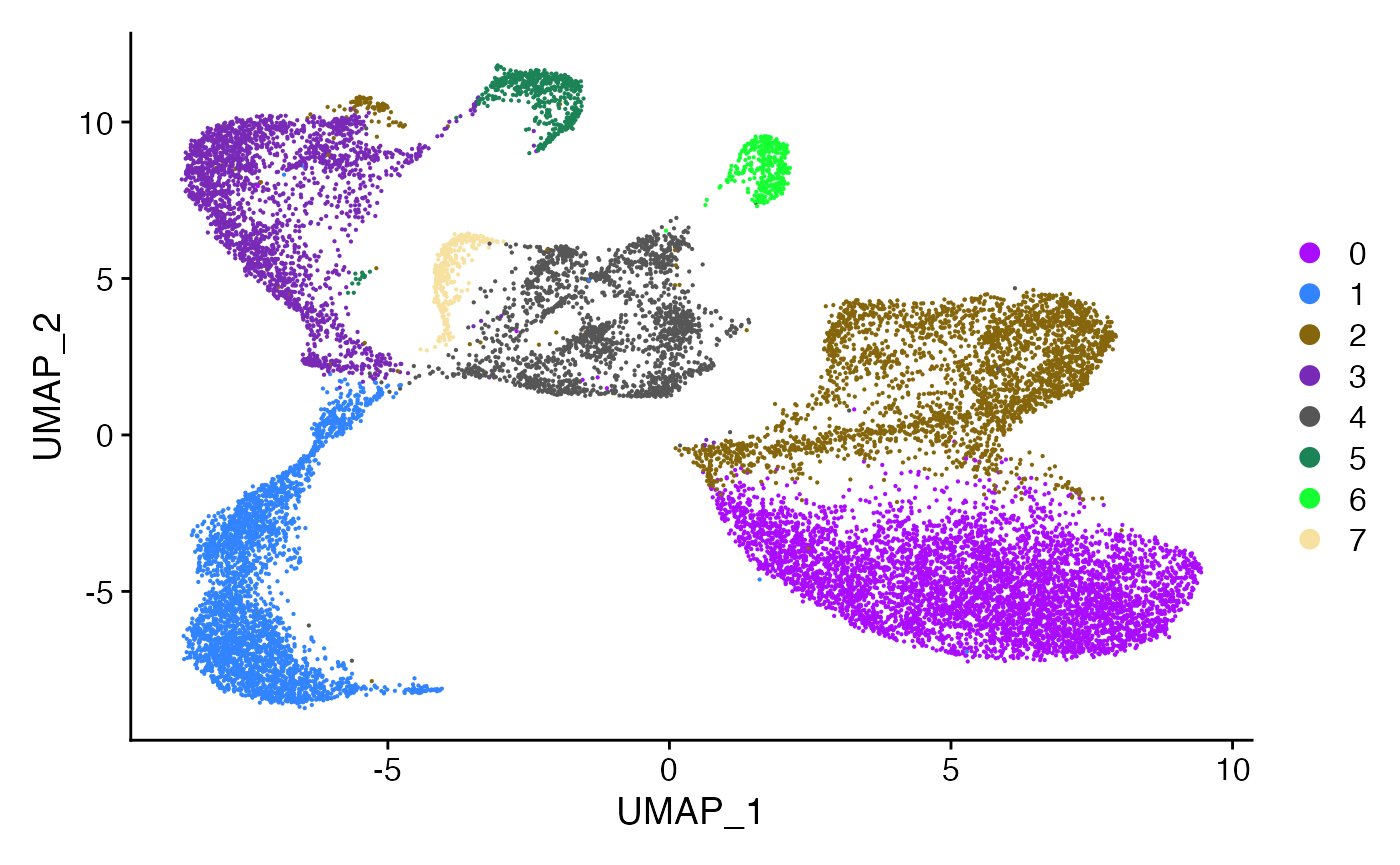
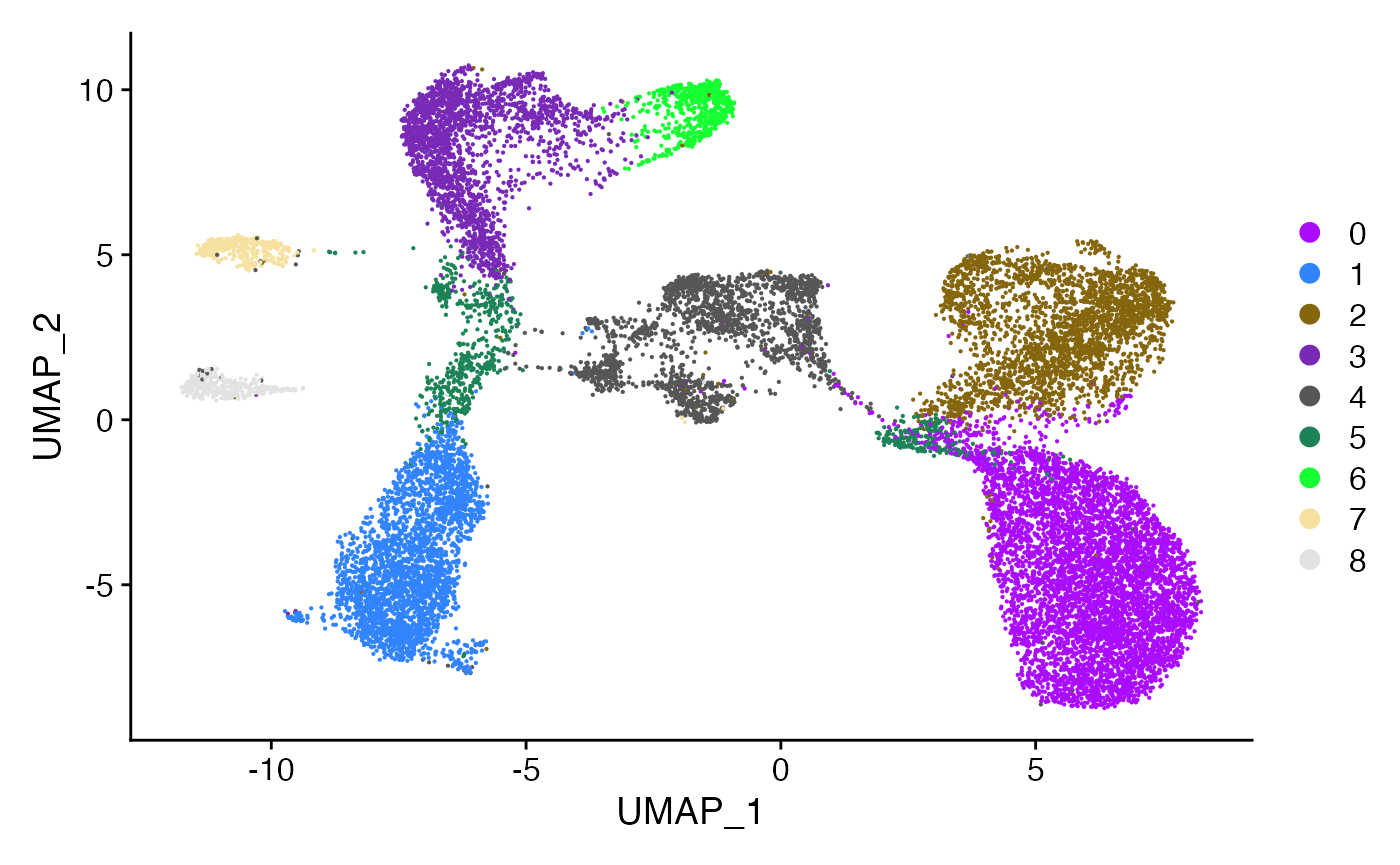
section on dimentionality reduction

diff --git a/docs/articles/intro_sc_analysis.html b/docs/articles/intro_sc_analysis.html
@@ -96,7 +96,6 @@
 <span class="fu"><a href="https://rdrr.io/r/base/library.html">library</a></span>(<span class="kw">SingleCellExperiment</span>)
 <span class="fu"><a href="https://rdrr.io/r/base/library.html">library</a></span>(<span class="kw">scRNAseq</span>) 
 <span class="fu"><a href="https://rdrr.io/r/base/library.html">library</a></span>(<span class="kw"><a href="http://tidyverse.tidyverse.org">tidyverse</a></span>) 
-<span class="fu"><a href="https://rdrr.io/r/base/library.html">library</a></span>(<span class="kw"><a href="https://plotly-r.com">plotly</a></span>)
 <span class="fu"><a href="https://rdrr.io/r/base/library.html">library</a></span>(<span class="kw"><a href="https://wilkelab.org/cowplot">cowplot</a></span>)
 </pre></div>
 </div>
@@ -187,10 +186,11 @@
 <div id="identification-of-most-variable-genes" class="section level2">
 <h2 class="hasAnchor">
 <a href="#identification-of-most-variable-genes" class="anchor"></a>Identification of most variable genes</h2>
+<p>The figure shows some association between the average and variances gene expression. The point at the end is that focusing in the most variable genes helps to highlight the signal of single cell datasets. We are going to identify the top 2K most variable genes, but lets keep in mind that this may remove some genes of interest.</p>
 <div class="sourceCode" id="cb9"><pre class="downlit">
 
 <span class="kw">lung_data</span> <span class="op">&lt;-</span> <span class="fu"><a href="https://rdrr.io/pkg/Seurat/man/FindVariableFeatures.html">FindVariableFeatures</a></span>(<span class="kw">lung_data</span>, selection.method = <span class="st">"vst"</span>,
-                                  nfeatures = <span class="fl">5000</span>)
+                                  nfeatures = <span class="fl">2000</span>)
 <span class="kw">plot1</span> <span class="op">&lt;-</span> <span class="fu"><a href="https://rdrr.io/pkg/Seurat/man/VariableFeaturePlot.html">VariableFeaturePlot</a></span>(<span class="kw">lung_data</span>, log = <span class="fl">TRUE</span>)
 <span class="kw">top_genes</span> <span class="op">&lt;-</span> <span class="fu"><a href="https://rdrr.io/r/utils/head.html">head</a></span>(<span class="fu"><a href="https://rdrr.io/pkg/SeuratObject/man/VariableFeatures.html">VariableFeatures</a></span>(<span class="kw">lung_data</span>), <span class="fl">20</span>)
 <span class="fu"><a href="https://rdrr.io/pkg/Seurat/man/LabelPoints.html">LabelPoints</a></span>(<span class="kw">plot1</span>, points = <span class="kw">top_genes</span>, repel = <span class="fl">TRUE</span>)
@@ -200,46 +200,97 @@
 <div id="principal-components-analysis" class="section level2">
 <h2 class="hasAnchor">
 <a href="#principal-components-analysis" class="anchor"></a>Principal Components Analysis</h2>
+<p>The next steps are to scale the data and to compute the principal components of the data. This is necessary because <code>Seurat</code> will utilize the components to calculate how do cells relate to each other. These steps are slow when we use all the genes in the data, so it is common to use the list of most variable genes.</p>
 <div class="sourceCode" id="cb10"><pre class="downlit">
-
 <span class="kw">variable_genes</span> <span class="op">&lt;-</span> <span class="fu"><a href="https://rdrr.io/pkg/SeuratObject/man/VariableFeatures.html">VariableFeatures</a></span>(object = <span class="kw">lung_data</span>)
 <span class="kw">lung_data</span> <span class="op">&lt;-</span> <span class="fu"><a href="https://rdrr.io/pkg/Seurat/man/ScaleData.html">ScaleData</a></span>(<span class="kw">lung_data</span>, features = <span class="kw">variable_genes</span>)
 <span class="kw">lung_data</span> <span class="op">&lt;-</span> <span class="fu"><a href="https://rdrr.io/pkg/Seurat/man/RunPCA.html">RunPCA</a></span>(<span class="kw">lung_data</span>, features = <span class="fu"><a href="https://rdrr.io/pkg/SeuratObject/man/VariableFeatures.html">VariableFeatures</a></span>(object = <span class="kw">lung_data</span>))
 </pre></div>
+<p>For example, we can visualize top genes that are driving the variance explained by each component:</p>
 <div class="sourceCode" id="cb11"><pre class="downlit">
-
+<span class="fu"><a href="https://rdrr.io/pkg/Seurat/man/VizDimLoadings.html">VizDimLoadings</a></span>(<span class="kw">lung_data</span>, dims = <span class="fl">1</span><span class="op">:</span><span class="fl">3</span>, reduction = <span class="st">"pca"</span>, ncol = <span class="fl">3</span>)
+</pre></div>
+<p><img src="intro_sc_analysis_files/figure-html/viz-loadings-1.png" width="90%" style="display: block; margin: auto;"> Then, the next question to solve is how many components to pick. There are many alternatives to solve this question, but the simplest alternative is to pick them by the Elbow criteria, which is to compare the std. deviation explained by each components with its rank, and pick the previous components before we observe and elbow pattern.</p>
+<div class="sourceCode" id="cb12"><pre class="downlit">
 <span class="fu"><a href="https://rdrr.io/pkg/Seurat/man/ElbowPlot.html">ElbowPlot</a></span>(<span class="kw">lung_data</span>)
 </pre></div>
 <p><img src="intro_sc_analysis_files/figure-html/pick-pc-components-1.png" width="700" style="display: block; margin: auto;"></p>
+<p>This is not an exact approach, so we according to the figure above, we would pick the top 2, 7 or 12 components.</p>
 </div>
-<div id="clustering" class="section level2">
+<div id="clustering-the-cells" class="section level2">
 <h2 class="hasAnchor">
-<a href="#clustering" class="anchor"></a>Clustering</h2>
-<div class="sourceCode" id="cb12"><pre class="downlit">
-<span class="kw">lung_data</span> <span class="op">&lt;-</span> <span class="fu"><a href="https://rdrr.io/pkg/Seurat/man/FindNeighbors.html">FindNeighbors</a></span>(<span class="kw">lung_data</span>, dims = <span class="fl">1</span><span class="op">:</span><span class="fl">10</span>)
-<span class="kw">lung_data</span> <span class="op">&lt;-</span> <span class="fu"><a href="https://rdrr.io/pkg/Seurat/man/FindClusters.html">FindClusters</a></span>(<span class="kw">lung_data</span>, resolution = <span class="fl">0.1</span>)
+<a href="#clustering-the-cells" class="anchor"></a>Clustering the cells</h2>
+<p>This is the most important part of the analysis so far, <code>Seurat</code> applies a graph based clustering approach, and to determine the number of clusters it is going to be necessary to tune the two parameters: <strong>the top # of principal components</strong> and the <strong>resolution</strong>.</p>
+<ul>
+<li>The <strong>top # principal components</strong> determines how detailed is going to be our approximation when computing the distance between any two cells</li>
+<li>The <strong>resolution</strong> determines the size of the clusters that the algorithm finds. Smaller values will result in larger clusters or less clusters.</li>
+</ul>
+<p><code>Seurat</code> utilizes the Louvain algorithm to cluster the cells in a neighbor graph, and it works by maximizing the “modularity” of the cells network, so it tries to group together the nodes that very similar among them, and to maximize the distance between different clusters / modules.</p>
+<div class="sourceCode" id="cb13"><pre class="downlit">
+<span class="kw">lung_data</span> <span class="op">&lt;-</span> <span class="fu"><a href="https://rdrr.io/pkg/Seurat/man/FindNeighbors.html">FindNeighbors</a></span>(<span class="kw">lung_data</span>, dims = <span class="fl">1</span><span class="op">:</span><span class="fl">7</span>)
+<span class="kw">lung_data</span> <span class="op">&lt;-</span> <span class="fu"><a href="https://rdrr.io/pkg/Seurat/man/FindClusters.html">FindClusters</a></span>(<span class="kw">lung_data</span>, resolution = <span class="fl">.3</span>)
 <span class="co">#&gt; Modularity Optimizer version 1.3.0 by Ludo Waltman and Nees Jan van Eck</span>
 <span class="co">#&gt; </span>
 <span class="co">#&gt; Number of nodes: 17514</span>
-<span class="co">#&gt; Number of edges: 584247</span>
+<span class="co">#&gt; Number of edges: 546894</span>
 <span class="co">#&gt; </span>
 <span class="co">#&gt; Running Louvain algorithm...</span>
-<span class="co">#&gt; Maximum modularity in 10 random starts: 0.9720</span>
-<span class="co">#&gt; Number of communities: 8</span>
+<span class="co">#&gt; Maximum modularity in 10 random starts: 0.9308</span>
+<span class="co">#&gt; Number of communities: 9</span>
 <span class="co">#&gt; Elapsed time: 2 seconds</span>
+<span class="co">## this is to make the cluster colors agree below</span>
+<span class="kw">nclusters</span> <span class="op">&lt;-</span> <span class="fu"><a href="https://rdrr.io/r/base/nlevels.html">nlevels</a></span>(<span class="kw">lung_data</span><span class="op">@</span>meta.data<span class="op">$</span><span class="kw">seurat_clusters</span>)
+<span class="kw">colors</span> <span class="op">&lt;-</span> <span class="kw">pals</span>::<span class="fu"><a href="https://rdrr.io/pkg/pals/man/discrete.html">alphabet2</a></span>(<span class="kw">nclusters</span>)
+<span class="fu"><a href="https://rdrr.io/r/base/names.html">names</a></span>(<span class="kw">colors</span>) <span class="op">&lt;-</span> <span class="kw">NULL</span>
 </pre></div>
 </div>
 <div id="umap" class="section level2">
 <h2 class="hasAnchor">
 <a href="#umap" class="anchor"></a>UMAP</h2>
-<div class="sourceCode" id="cb13"><pre class="downlit">
+<p>If this was a bulk RNA-seq dataset, we would visualize the samples using principal components. However, doing this with single cell we get a visualization that is not getting advantage of the whole space, mostly because:</p>
+<ol style="list-style-type: decimal">
+<li>It is a linear transformation of the data</li>
+<li>There are other components representing the data variation, so sometimes dots from a cluster overlay with dots from other cluster</li>
+</ol>
+<div class="sourceCode" id="cb14"><pre class="downlit">
+<span class="fu"><a href="https://rdrr.io/pkg/Seurat/man/DimPlot.html">DimPlot</a></span>(<span class="kw">lung_data</span>, reduction = <span class="st">"pca"</span>, cols = <span class="kw">colors</span>)
+</pre></div>
+<p><img src="intro_sc_analysis_files/figure-html/pc-analysis-1.png" width="700" style="display: block; margin: auto;"></p>
+<p>Therefore we need to depends on other dimensionality reduction methods like t-SNE, UMAP, etc. For example, we use UMAP and we can notice:</p>
+<ol style="list-style-type: decimal">
+<li>We can see that all clusters are represented, i.e. all are in front</li>
+<li>The cells in each cluster are grouped together, e.g. for clusters 7 and 8 the difference is the most striking</li>
+<li>The clusters that were close to each other are still close, e.g. <code>1 ~ 5 ~ 3</code>, <code>0 ~ 2</code>, etc</li>
+<li>The clustering algorithm is not perfect, it looks like there are clusters that can be further separated, thus we need to increase the resolution</li>
+</ol>
+<div class="sourceCode" id="cb15"><pre class="downlit">
 <span class="kw">lung_data</span> <span class="op">&lt;-</span> <span class="fu"><a href="https://rdrr.io/pkg/Seurat/man/RunUMAP.html">RunUMAP</a></span>(<span class="kw">lung_data</span>, dims = <span class="fl">1</span><span class="op">:</span><span class="fl">10</span>)
-<span class="kw">nclusters</span> <span class="op">&lt;-</span> <span class="fu"><a href="https://rdrr.io/r/base/nlevels.html">nlevels</a></span>(<span class="kw">lung_data</span><span class="op">@</span>meta.data<span class="op">$</span><span class="kw">seurat_clusters</span>)
-<span class="kw">colors</span> <span class="op">&lt;-</span> <span class="kw">pals</span>::<span class="fu"><a href="https://rdrr.io/pkg/pals/man/discrete.html">alphabet2</a></span>(<span class="kw">nclusters</span>)
-<span class="fu"><a href="https://rdrr.io/r/base/names.html">names</a></span>(<span class="kw">colors</span>) <span class="op">&lt;-</span> <span class="kw">NULL</span>
 <span class="fu"><a href="https://rdrr.io/pkg/Seurat/man/DimPlot.html">DimPlot</a></span>(<span class="kw">lung_data</span>, reduction = <span class="st">"umap"</span>, cols = <span class="kw">colors</span>)
 </pre></div>
 <p><img src="intro_sc_analysis_files/figure-html/umap-analysis-1.png" width="700" style="display: block; margin: auto;"></p>
+<p><strong>Disclaimer:</strong> UMAP is similar to t-SNE, and we would use the <code>runTSNE</code> instead of <code>runUMAP</code>:</p>
+<div class="sourceCode" id="cb16"><pre class="downlit">
+<span class="kw">lung_data</span> <span class="op">&lt;-</span> <span class="fu"><a href="https://rdrr.io/pkg/Seurat/man/RunTSNE.html">RunTSNE</a></span>(<span class="kw">lung_data</span>, dims = <span class="fl">1</span><span class="op">:</span><span class="fl">10</span>)
+<span class="fu"><a href="https://rdrr.io/pkg/Seurat/man/DimPlot.html">DimPlot</a></span>(<span class="kw">lung_data</span>, reduction = <span class="st">"tsne"</span>, cols = <span class="kw">colors</span>)
+</pre></div>
+</div>
+<div id="find-markers-per-cluster" class="section level2">
+<h2 class="hasAnchor">
+<a href="#find-markers-per-cluster" class="anchor"></a>Find markers per cluster</h2>
+<div class="sourceCode" id="cb17"><pre class="downlit">
+<span class="kw">lung_data_markers</span> <span class="op">&lt;-</span> <span class="fu"><a href="https://rdrr.io/pkg/Seurat/man/FindAllMarkers.html">FindAllMarkers</a></span>(
+    <span class="kw">lung_data</span>, only.pos = <span class="fl">TRUE</span>,
+    min.pct = <span class="fl">0.25</span>, logfc.threshold = <span class="fl">0.25</span>)
+<span class="kw">top_markers</span> <span class="op">&lt;-</span> <span class="kw">lung_data_markers</span> <span class="op">%&gt;%</span> 
+    <span class="fu">group_by</span>(<span class="kw">cluster</span>) <span class="op">%&gt;%</span> 
+    <span class="fu">top_n</span>(n = <span class="fl">15</span>, wt = <span class="kw">avg_log2FC</span>)
+</pre></div>
+<div class="sourceCode" id="cb18"><pre class="downlit">
+<span class="fu"><a href="https://rdrr.io/pkg/Seurat/man/DoHeatmap.html">DoHeatmap</a></span>(<span class="kw">lung_data</span>, features = <span class="kw">top_markers</span><span class="op">$</span><span class="kw">gene</span>,
+          group.colors = <span class="kw">colors</span>, size = <span class="fl">3</span>) <span class="op">+</span>
+  <span class="fu"><a href="https://rdrr.io/pkg/Seurat/man/SeuratTheme.html">NoLegend</a></span>()
+</pre></div>
+<p><img src="intro_sc_analysis_files/figure-html/representative-genes-1.png" width="90%" style="display: block; margin: auto;"></p>
 </div>
 <div id="final-thoughts" class="section level2">
 <h2 class="hasAnchor">

diff --git a/docs/index.html b/docs/index.html
@@ -108,8 +108,7 @@
 <div class="sourceCode" id="cb1"><pre class="sourceCode R"><code class="sourceCode r"><span id="cb1-1"><a href="#cb1-1" aria-hidden="true" tabindex="-1"></a><span class="fu">install.packages</span>(<span class="st">"tidyverse"</span>)</span>
 <span id="cb1-2"><a href="#cb1-2" aria-hidden="true" tabindex="-1"></a><span class="fu">install.packages</span>(<span class="st">"Seurat"</span>)</span>
 <span id="cb1-3"><a href="#cb1-3" aria-hidden="true" tabindex="-1"></a><span class="fu">install.packages</span>(<span class="st">"BiocManager"</span>)</span>
-<span id="cb1-4"><a href="#cb1-4" aria-hidden="true" tabindex="-1"></a><span class="fu">install.packages</span>(<span class="st">"plotly"</span>)</span>
-<span id="cb1-5"><a href="#cb1-5" aria-hidden="true" tabindex="-1"></a>BiocManager<span class="sc">::</span><span class="fu">install</span>(<span class="st">"scRNAseq"</span>) <span class="do">## to get a dataset</span></span></code></pre></div>
+<span id="cb1-4"><a href="#cb1-4" aria-hidden="true" tabindex="-1"></a>BiocManager<span class="sc">::</span><span class="fu">install</span>(<span class="st">"scRNAseq"</span>) <span class="do">## to get a dataset</span></span></code></pre></div>
 </div>
 </div>
   </div>

diff --git a/README.md b/README.md
@@ -39,5 +39,4 @@ After installing RStudio, these are the packages we may use:
     install.packages("tidyverse")
     install.packages("Seurat")
     install.packages("BiocManager")
-    install.packages("plotly")
     BiocManager::install("scRNAseq") ## to get a dataset
